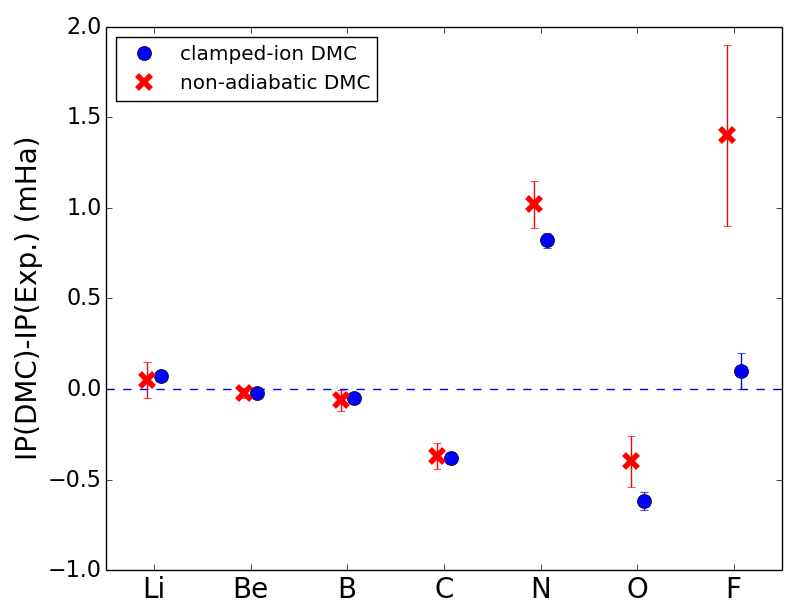
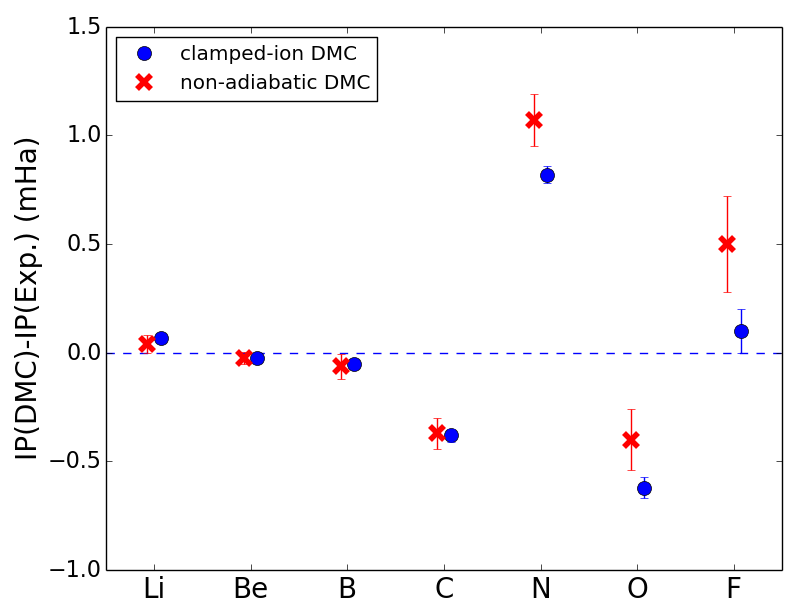
Reorganized Method Section
non-adiabatic CH should be correct now, but the result makes no sense.
Error bars on N, O and F need to be shrunk further to confirm ionization
conclusion

diff --git a/main.tex b/main.tex
@@ -23,21 +23,20 @@ As a framework to address these problems in general realistic systems, we recent
 \subsection{Fixed-Node Diffusion Monte Carlo (FN-DMC)}
 Diffusion Monte Carlo is a projector method that evolves a trial wavefunction in imaginary time and projects out the ground-state wavefunction.  For practical simulations of fermions, the fixed-node approximation is introduced, which depends only on set of electronic positions where a trial wave functions is equal to zero.  This approximation is different than approximations typically used in quantum chemistry calculations, and in this work we demonstrate that we can generate high quality nodal surfaces for a range of systems which include full electron-ion wave functions. 
 
-In the limiting case that the trial wavefunction has the same nodal surface as the exact ground-state wavefunction, FN-DMC can be applied to obtain the exact ground-state energy.  Approximate nodal surface can be generated through optimization of the full wave function. Such approximate nodal surfaces have been tested and validated on a wide range of systems, and consistently provide an excellent approximation of the exact ground-state energy,  comparable to the state of the art in \textit{ab initio} simulations~\cite{grossman1}. In addition the energies generated with FN-DMC are variational with regards to the ground state energy.
+If the trial wavefunction has the same nodal surface as the exact ground-state wavefunction, FN-DMC will obtain the exact ground-state energy.  Approximate nodal surfaces can be generated through optimization of the full wave function. Such approximate nodal surfaces have been tested and validated on a wide range of systems, and consistently provide an excellent approximation of the exact ground-state energy,  comparable to the state of the art in \textit{ab initio} simulations~\cite{grossman1}. In addition the energies generated with FN-DMC are variational with regards to the ground state energy.
 
-%With advances in wave function optimization, 
 In all but a handful of previous QMC simulations, ions are "clamped" to their equilibrium positions. Recent advances~\cite{Nightingale_Linear,Umrigar_Linear,Brown_Bench} have made it possible to optimize thousands of wave function parameters simultaneously with variational Monte Carlo within the clamped nuclei approximation. However, Such an assumption is not fundamentally required by FN-DMC.  In our previous work we found that the most important effect to optimize for were the nodes due to electron-electron correlations~\cite{Tubman_ECG}, and in this regard we use more sophisticated electronic terms in the wave function than the ion part of the wave function.
 
 \subsection{Electron Wavefunction and Optimization}
-There are several different approaches for generating high quality wave functions ~\cite{Umrigar_Alleviation,Toulouse_Bench, Brown_Bench,Seth_Bench}. We use an initial guess for the wavefunction that is generated from complete active space self-consistent field (CASSCF) \cite{Chaban_MCSCF,Szabo} calculation using the quantum chemistry package GAMESS \cite{GAMESS}. The optimized orbitals are then used in a configuration interaction (SOCI) calculation to generate a series of configuration state functions (CSF)~\cite{Clark_Bench}. The multi-CSF expansion of the wavefunction  can be expressed in the following form,
+There are several different approaches for generating high quality wave functions ~\cite{Umrigar_Alleviation,Toulouse_Bench, Brown_Bench,Seth_Bench}. We use an initial guess for the wavefunction that is generated from complete active space self-consistent field (CASSCF) \cite{Chaban_MCSCF,Szabo} calculation using the quantum chemistry package GAMESS \cite{GAMESS}. The optimized orbitals are then used in a singles and doubles configuration interaction (CISD) calculation to generate a series of configuration state functions (CSF)~\cite{Clark_Bench}. The multi-CSF expansion of the wavefunction can be expressed in the following form,
 \begin{align}
-\Psi_{SOCI}(\vec{r})=\sum\limits_{i=1}^{N_{CSF}}\alpha_i\phi_i(\vec{r}), \label{eq:psi_gms}
+\Psi_{\text{CISD}}(\vec{r};\vec{R}_e)=\sum\limits_{i=1}^{N_{\text{CSF}}}\alpha_i\phi_i(\vec{r};\vec{R}_e), \label{eq:psi_gms}
 \end{align}
-where $\vec{r}$ refers to the spacial coordinates of all the electrons. $\phi_i(\vec{r})$ are the CSF generated from SOCI. We used the cc-pV5Z basis for all the atomic systems and Roos Augmented Triple Zeta ANO basis for molecular systems~\cite{dunning,roos}. We then impose cusp condition on each molecular orbital~\cite{cusp} and add a Jastrow factor to the wave function to include electron correlation~\cite{Kato}. Our Jastrow factor contains one, two and three body terms. The full wave function being optimized is then
+where $\vec{r}$ refers to the spatial coordinates of all the electrons, $\vec{R}_e$ refers to the equilibrium positions of all the ions. $\phi_i(\vec{r})$ and $\vec{\alpha}=\{\alpha_1,\alpha_2,\dots\}$ are the CSF and CI coefficients generated from CISD. We used the cc-pV5Z basis for all the atomic systems and Roos Augmented Triple Zeta ANO basis for molecular systems~\cite{dunning,roos}. We then impose the cusp condition on each molecular orbital~\cite{cusp} and add a Jastrow factor to the wave function to include electron correlation~\cite{Kato}. Our Jastrow factor contains one, two and three body terms. The full electronic wave function being optimized is then
 \begin{align}
-\Psi_e(\vec{r})=e^{J(\vec{r},\vec{\beta})}\sum\limits_{i=1}^{N_{CSF}}\alpha_i\phi_i(\vec{r})\label{eq:psie}
+\psi_e(\vec{r})=e^{J(\vec{r},\vec{\beta})}\Psi_{\text{CISD}}(\vec{r};\vec{R}_e)\label{eq:psie}
 \end{align}
-We optimized the CSF and Jastrow coefficients $\vec{\alpha},\vec{\beta}$ simultaneously with QMCPACK \cite{QMCPACK}.
+We optimized the CSF and Jastrow coefficients $\vec{\alpha},\vec{\beta}$ simultaneously with QMCPACK \cite{QMCPACK}. Optimization is performed with the ions clamped to their equilibrium positions. We include all CSFs with coefficients bigger than some cutoff $\epsilon$ to lend reasonable flexibility to the wavefunction during optimization. We include as many CSFs as possible to maximize the flexibility of the wavefunction. However, the inclusion of too many CSFs with small expansion coefficients can introduces noise as they requires a large number of samples in the optimization step to be optimized. We have chosen $\epsilon$ to restrict the number of CSFs in the wave function to be $\sim$1000 in all systems. Optimization was performed with the linear method with roughly $10^7$ statistically independent samples and we chose a cost function consisting of equal parts average local energy and reweighted variance.
 
 \subsection{Electron-Ion Wavefunction}
 
@@ -51,12 +50,14 @@ Once a satisfactory electronic wave function has been obtained, we construct the
 \begin{align}
 \Psi_{ei}(\vec{r},\vec{R})=\psi_I(\vec{R})\bar{\psi}_e(\vec{r},\vec{R}), \label{eq:psi}
 \end{align}
-where $\vec{R}$ includes spatial coordinates of all ions. The ion wave function consists of simple products of Gaussian wave functions over each nuclei pair,
+where $\vec{R}$ includes spatial coordinates of all ions. The ionic wave function consists of simple products of Gaussian wave functions over each nuclei pair,
 \begin{align}
-\psi_I(\vec{R})\propto \prod\limits_{i,i<j}e^{-a(\vert \vec{R}-\vec{R}_j\vert-b_{ij})^2},
+\psi_I(\vec{R})\propto \prod\limits_{i,j>i}e^{-a(\vert \vec{R}-\vec{R}_j\vert-b_{ij})^2},
 \label{wfs_ions}
 \end{align}
-where $a$ is a contraction coefficient for the ion wave function that we optimize for each system and $b_{ij}$ are taken to be the equilibrium distances between the nuclei at the minimum of the potential energy surface of the clamped nuclei.  Due to the locality of the Gaussian basis set used in the quantum chemistry calculations for constructing the electronic wave function, the nodes change based on the ionic position, which we have previously called the dragged-node approximation.  Although there are approaches for going beyond this approximation, it was demonstrated to be highly accurate over a range of molecules in previous work.  For the systems considered here, we can impose various symmetries of the Hamiltonian onto the wave function that arise from the relative motion of the ions.  In Fig.~\ref{fig:drag} we demonstrate this strategy for the simple cases of a hydrogen atom and a H$_2^+$ molecular ion. Although the dragged-node technique is developed with atomic and diatomic systems in mind, it is not difficult to generalize it for use in larger systems or even apply to parts of a bigger system, e.g., treating light ions as quantum particles and heavy ions as "clamped".
+where $a$ is a coefficient for the ion wave function that we optimize and $b_{ij}$ are taken to be the equilibrium distances between the nuclei. FN-DMC was then performed with the fully optimized electron-ion wave function. We performed timestep extrapolation for all of the tested systems. At least four timesteps from $0.005~\text{Ha}^{-1}$ to $0.001~\text{Ha}^{-1}$ were used for all systems in the adiabatic FN-DMC and $0.001~\text{Ha}^{-1}$ to $0.0001~\text{Ha}^{-1}$ in non-adiabatic FN-DMC.
+
+Due to the locality of the Gaussian basis set used in the quantum chemistry calculations for constructing the electronic wave function, the nodes change based on the ionic positions, which we have previously called the dragged-node approximation. In particular, the nodes only coincide with those obtained from the quantum chemistry calculation when the ions are at their equilibrium positions $\bar{\psi}_e(\vec{r},\vec{R}_e)=\psi_e(\vec{r})$. Although there are approaches for going beyond this approximation, it was demonstrated to be highly accurate over a range of molecules in previous work.~\cite{Tubman_ECG} For the systems considered here, we can impose various symmetries of the Hamiltonian onto the wave function that arise from the relative motion of the ions. In Fig.~\ref{fig:drag} we demonstrate this strategy for the simple cases of a hydrogen atom and a H$_2^+$ molecular ion. Although the dragged-node technique is developed with atomic and diatomic systems in mind, it is not difficult to generalize it for use in larger systems or even apply to parts of a bigger system, e.g., treating light ions as quantum particles and heavy ions as "clamped". 
 
 \section{Results and Discussion}
 \input{Table/atoms}
@@ -64,22 +65,21 @@ where $a$ is a contraction coefficient for the ion wave function that we optimiz
 \begin{figure}
 \centering
 \includegraphics[scale=.4]{Figures/ad-ECG}
-\caption{Ground state energy of Be,$\text{Be}^+$,B,$\text{B}^+$ and $\text{C}^+$ calculated with clamped-ion FN-DMC compared to ECG results.~\cite{Stanke_Be,Puchalski_Be+,Bubin_B,Bubin_B+,Bubin_C+} The ECG reference energies are chosen to be the origins of the y-axes. \label{fig:ad-atoms}}
+\caption{Clamped-ion FN-DMC ground state energies for $\text{Be}^+$,Be,$\text{B}^+$,B,$\text{C}^+$ relative to clamped-ion ECG references.~\cite{Stanke_Be,Puchalski_Be+,Bubin_B,Bubin_B+,Bubin_C+} These differences provide an estimate for the fixed node errors in these systems. \label{fig:ad-atoms}}
 \end{figure}
 
 \begin{figure}
 \centering
 \includegraphics[scale=.4]{Figures/nad-ECG}
-\caption{Ground state energy of Be,$\text{Be}^+$,B,$\text{B}^+$ and $\text{C}^+$ calculated with non-adiabatic FN-DMC compared to ECG results.~\cite{Bubin_BeH_noBO,Bubin_B,Bubin_B+,Bubin_C+} The ECG reference energies are chosen to be the origins of the y-axes. \label{fig:nad-atoms}}
+\caption{Non-adiabatic FN-DMC ground state energies for $\text{Be}^+$,Be,$\text{B}^+$,B,$\text{C}^+$ relative to non-adiabatic ECG references.~\cite{Bubin_BeH_noBO,Bubin_B,Bubin_B+,Bubin_C+} These differences provide an estimate for the fixed node errors in these systems. \label{fig:ECG-atoms}}
 \end{figure}
 
 \subsection{Ground State Energies}
-Ground state energies are calculated for first row atoms and ions and hydrides with and without the adiabatic assumption, see Table \ref{tab:ionization} and \ref{tab:atomization}. The ground state geometries for BeH and BH are chosen to be the ECG-optimized distances for a comparison with the ECG method and the geometries for the rest of the hydrides are taken from experimental data \cite{CCCBDB}. For the systems, Li, Be, B, Be$^+$, B$^+$, C$^+$ and LiH the ECG/Hylleraas results are converged to several digits beyond what can be done with normal quantum chemistry techniques.  Thus these results are likely much more accurate than experimental results, and are converged to an accuracy beyond our FN-DMC results.   %For the largest ECG simulation of the BH molecule, it is clear that this high level of convergence has not been achieved, as our QMC results are significantly lower in energy.  
-   We first perform a CAS(m,n) calculation (m electrons into n active orbitals), then the MCSCF optimized orbitals are used in a SOCI calculation that includes single and double excitations of the m electrons into all of the remaining valance orbitals. We include all CSFs with coefficients bigger than some cutoff $\epsilon$ to lend reasonable flexibility to the wavefunction during optimization. We include as many CSFs as possible to maximize the flexibility of the wavefunction. However, the inclusion of too many CSFs with small expansion coefficients can introduces noise as they requires a large number of samples in the optimization step to be optimized. We have chosen $\epsilon$ to restrict the number of CSFs in the wave function to be $\sim$1000 in all systems. Optimization was performed with the linear method with roughly $10^7$ statistically independent samples and we chose a cost function consisting of equal parts average local energy and reweighted variance. We performed timestep extrapolation for all of the tested systems. At least four timesteps from $0.005~\text{Ha}^{-1}$ to $0.001~\text{Ha}^{-1}$ were used for all systems in the adiabatic FN-DMC.
+Ground state energies are calculated for first row atoms and ions and hydrides with and without the adiabatic assumption, see Table \ref{tab:ionization} and \ref{tab:atomization}. The ground state geometries for BeH and BH are chosen to be the ECG-optimized distances for a comparison with the ECG method and the geometries for the rest of the hydrides are taken from experimental data \cite{CCCBDB}. For the small systems, Li, Be, B, Be$^+$, B$^+$, C$^+$ and LiH the ECG/Hylleraas results are converged to several digits beyond what can be done with normal quantum chemistry techniques. Thus these results are likely much more accurate than experimental results, and are converged to an accuracy beyond our FN-DMC results.
 
-As an illustration of the high quality QMC techniques used in this work, we compare our atomic results with a recent QMC benchmark study~\cite{Seth_Bench}. The clamped nuclei ground state FN-DMC energies are consistently equal across all systems (except for O$^{+}$), within error bars. This is an interesting coincidence since we used a different approach in optimizing our wave functions. In particular our large multi-determinant expansions, can be compared with the approach used by Seth {\it et al.}~\cite{Seth_Bench} which used moderately-sized multi-determinant expansions ($\sim$ 100 CSF) with a backflow transformation.   
+As an illustration of the high quality QMC techniques used in this work, we compare our atomic results with a recent QMC benchmark study~\cite{Seth_Bench}. The clamped nuclei ground state FN-DMC energies consistently agree across all systems (except for O$^{+}$), within error bars. This is an interesting coincidence since we used a different approach in optimizing our wave functions. In particular our large multi-determinant expansions, can be compared with the approach used by Seth {\it et al.}~\cite{Seth_Bench} which used moderately-sized multi-determinant expansions ($\sim$ 100 CSF) with a backflow transformation.   
  
-For the atomic systems, there are three ECG calculations of non-adiabatic ground state energies we can use as benchmark. The non-adiabatic ground-state energies for Be, $\text{Be}^+$, B,$\text{B}^+$ and $\text{C}^+$ are in agreement with ECG results (-14.66643544~Ha~\cite{Bubin_BeH_noBO},-14.32386349~Ha~\cite{Bubin_BeH_noBO},-24.65262387(250)~Ha~\cite{Bubin_B},-24.347641289(35)~Ha~\cite{Bubin_B+},-37.42916955(250)~Ha~\cite{Bubin_C+}) within 0.2 mHa as shown in Figure \ref{fig:ECG-atoms} .
+For the atomic systems, there are three ECG calculations of non-adiabatic ground state energies we can use as benchmark. The non-adiabatic ground-state energies for Be, $\text{Be}^+$, B,$\text{B}^+$ and $\text{C}^+$ are in agreement with ECG results (-14.66643544~Ha~\cite{Bubin_BeH_noBO},-14.32386349~Ha~\cite{Bubin_BeH_noBO},-24.65262387(250)~Ha~\cite{Bubin_B},-24.347641289(35)~Ha~\cite{Bubin_B+},-37.42916955(250)~Ha~\cite{Bubin_C+}) within 0.2 mHa as shown in Figure \ref{fig:ECG-atoms}.
 
 We performed a study over diatomic systems, the results of which are presented in Table \ref{tab:atomization}. For these diatomic systems, there are high quality thermochemistry benchmark results for which we can compare ~\cite{Feller_Corrections}. 
 
@@ -87,12 +87,12 @@ To make the comparison against the thermochemistry benchmark results, we take th
 
 \begin{figure}
 \includegraphics[scale=.4]{Figures/atom-nad-ad}
-\caption{Non-adiabatic contribution to ground state energies of atoms and ions. The clamped-ion DMC results are chosen to be the origin of the y-axis. Non-adiabatic contribution shows very little dependence on the presence of the ionized electron.}
+\caption{Non-adiabatic contribution to ground state energies of atoms and ions. Non-adiabatic contribution shows very little dependence with the ionized state.}
 \end{figure}
 
 \begin{figure}
 \includegraphics[scale=.4]{Figures/hydride-ZPE}
-\caption{Non-adiabatic contribution to ground state energies in hydrides. The adiabatic reference energies are calculated by added zero-point contributions from \cite{Feller_Corrections} to our clamped-nuclei results.}
+\caption{Non-adiabatic contribution to ground state energies in hydrides. The adiabatic reference energies are calculated by adding zero-point contributions from \cite{Feller_Corrections} to our clamped-nuclei results.}
 \end{figure}
 
 \subsection{Ionization Energies}
@@ -100,10 +100,10 @@ To make the comparison against the thermochemistry benchmark results, we take th
 \begin{figure}[h]
 \centering
 \includegraphics[scale=.4]{Figures/ionization}
-\caption{Calculated ionization energies compared to experimental data. The calculated energies are all within 1 mHa of experiment.}
+\caption{Calculated ionization energies relative to experimental data. The calculated energies are all within 1 mHa of experiment.}
 \end{figure}
 
-The ionization energies are listed in Table \ref{tab:ionization}.  Notice that even though ground state energies change significantly with the inclusion of non-adiabatic effects, the ionization energies match with or without the adiabatic assumption. This suggests that for atomic systems, coupling between valence electron and ion motions is small. The difference in ground state energies can be entirely attributed to the zero point motion of the nuclei. Physically, this means that for all first row atoms, the outer most electron is screened from the nucleus and all of the energy required for its removal can be attributed to its interaction with the rest of the electrons in the atom.
+The ionization energies are listed in Table \ref{tab:ionization}.  Notice that even though ground state energies change significantly with the inclusion of non-adiabatic effects, the ionization energies are relatively independent of nuclear motion. This suggests that for atomic systems, coupling between valence electron and ion motions is small. The difference in ground state energies can be entirely attributed to the zero point motion of the nuclei. Physically, this means that for all first row atoms, the outer most electron is screened from the nucleus and all of the energy required for its removal can be attributed to its interaction with the rest of the electrons in the atom.
 
 For the LiH molecule we are also interested in calculating the electron affinity for comparison to ECG results. We calculated the ground state energy of LiH$^-$ to be $-8.08220(2)$~Ha for the case of clamped nuclei.  With non-adiabatic effects included our result is  $-8.07811(3)$~Ha. Our non-adiabatic result is in good agreement with a previous ECG study \cite{Bubin_LiH_noBO} which reported a value of $-8.07856887$~Ha. We report an electron affinity of $0.01191(4)$~Ha which is can be compared to the ECG prediction of $0.012132(2)$~Ha and agrees with experiment, $0.0126(4)$~Ha. \footnote{We note that LiH ground state energies which we compare against are mislabeled in Ref.\cite{Bubin_LiH_noBO}, with $\text{LiH}^-$ and LiD being switched.}
 
@@ -114,19 +114,19 @@ For the LiH molecule we are also interested in calculating the electron affinity
 \begin{figure}
 \centering
 \includegraphics[scale=.4]{Figures/dia-ECG}
-\caption{Ground state energy of LiH, BeH and BH calculated with non-adiabatic FN-DMC compared to ECG results.~\cite{Adamowicz_LiH,Koput_BeH,Miliordos_BH} The ECG reference energies are chosen to be the origins of the y-axes.}
+\caption{Ground state energies of LiH, BeH and BH calculated with non-adiabatic FN-DMC relative to ECG results.~\cite{Adamowicz_LiH,Koput_BeH,Miliordos_BH}.}
 \end{figure}
 
 \begin{figure}
 \centering
 \includegraphics[scale=.4]{Figures/atomization}
-\caption{Atomization energies of first row hydrides obtained with FN-DMC. The adiabatic results are estimated by adding zero-point energies from \cite{Feller_Corrections} to the clamped nuclei energies as exact corrections. Experimental values are chosen to be the origins of the y-axis.}
+\caption{Atomization energies of first row hydrides obtained with FN-DMC relative to experimental . The adiabatic results are estimated by adding zero-point energies from \cite{Feller_Corrections} to the clamped nuclei energies as exact corrections.}
 \end{figure}
 
-The ground state energies for various hydrides are reported in Table \ref{tab:atomization}. The energies calculated for clamped nuclei are on par with the best available quantum chemistry results \cite{Adamowicz_LiH,Koput_BeH,Miliordos_BH}. The energies calculated without the adiabatic assumption are in agreement with the ECG results for LiH, BeH to within 0.4 mHa. For small systems, ECG results are typically orders of magnitude more accurate than the best QMC and quantum chemistry simulations. However, with BH being one of the largest ECG simulations performed, the QMC results are actually lower in energy, in this case by 1 mHa. For the systems CH, OH, and HF, there are no explicit simulations we can compare against, and we rely on the experimental results and the results with estimated non-adiabatic corrections for comparison. Our biggest errors appear to occur for BeH and OH.   For the case of BeH our agree with accuracy higher than 1 mHa with both the ECG results and semi-empirical benchmarking. In particular the ECG results are converged to more digits than the experimental error bar, and it is likely the experimental reference has errors on the order of 5 mHa.   For the case of OH, our error is on the order of 1 mHa, which isn't unexpected as our clamped nuclei ground state energy is roughly 3 mHa from the actual estimated ground state energy.
+The ground state energies for various hydrides are reported in Table \ref{tab:atomization}. The energies calculated for clamped nuclei are on par with the best available quantum chemistry results \cite{Adamowicz_LiH,Koput_BeH,Miliordos_BH}. The energies calculated without the adiabatic assumption are in agreement with the ECG results for LiH, BeH to within 0.4 mHa. For small systems, ECG results are typically orders of magnitude more accurate than the best QMC and quantum chemistry simulations. However, with BH being one of the largest ECG simulations performed, the QMC results are actually lower in energy, in this case by 1 mHa. For the systems CH, OH, and HF, there are no explicit simulations we can compare against, and we rely on the experimental results and the results with estimated non-adiabatic corrections for comparison. Our biggest errors appear to occur for BeH and OH. For the case of BeH we agree with accuracy higher than 1 mHa with both the ECG results and semi-empirical benchmarking. In particular the ECG results are converged to more digits than the experimental error bar, and it is likely the experimental reference has errors on the order of 5 mHa.   For the case of OH, our error is on the order of 1 mHa, which is not unexpected as our clamped nuclei ground state energy is roughly 3 mHa from the actual estimated ground state energy.
 
 \section{Conclusion}
-We calculated the ground-state energies of first row atoms and their corresponding ions and hydrides to an accuracy of $0.1$ mHa both with and without the adiabatic assumption. We found the ionization energies of the atoms to be independent of the adiabatic assumption, suggesting that the energy difference between the adiabatic and non-adiabatic ground states is due to the zero point motion of the nuclei at the energy scales of interest. The atomization energies of simple hydrides, however, were significantly different in the adiabatic than in the non-adiabatic limit.   We showed that it is necessary to include non-adiabatic effects to accurately predict the experimental values of atomization energies for these simple hydrides.
+We calculated the ground-state energies of first row atoms and their corresponding ions and hydrides to an accuracy of $0.1$ mHa both with and without the adiabatic assumption. We found the ionization energies of most of the atoms to be independent of the adiabatic assumption, suggesting that the energy difference between the adiabatic and non-adiabatic ground states is mostly due to the zero point motion of the nuclei. The atomization energies of simple hydrides, however, were significantly different in the adiabatic than in the non-adiabatic limit. We showed that it is necessary to include non-adiabatic effects to accurately predict the experimental values of atomization energies for these simple hydrides to an accuracy of 1 mHa.
 
 These calculations also verified the validity of our wave function ansatz, namely it does indeed produce a high quality electron-ion trial wavefunction from a good electron wavefunction. This technique also has the potential to solve interesting larger-scale problems due to its ease of implementation as well as the polynomial scaling in computational time with respect to the number of electrons.  This technique can be generalized quite easily to deal with larger systems.
 

diff --git a/Table/atoms.tex b/Table/atoms.tex
@@ -46,7 +46,8 @@ $E_{\text{ref}}$ \cite{Davidson_Atoms,Wang_Li,Stanke_Be,Bubin_B} &  \text{-}7.47
 \multicolumn{1}{c}{} &
 \multicolumn{1}{c}{} &
 \multicolumn{1}{c}{} \\
-FN-DMC & \text{-}7.47742(1) & \text{-}14.66643(2) & \text{-}24.65240(5) & \text{-}37.8428(1) & \text{-}\textbf{54.5865(1)} & \text{-}75.0632(1) & \text{-}\textbf{99.7301(5)} \\
+FN-DMC & \text{-}7.47742(1) & \text{-}14.66643(2) & \text{-}24.65240(5) & \text{-}37.8428(1) & \text{-}54.58655(9) & \text{-}75.0632(1) & \text{-}99.7292(2) \\
+ECG & N/A & \text{-}14.666435\tnote{d} & \text{-}24.652624\tnote{e} & N/A & N/A & N/A & N/A \\
 \hline
 
 \multicolumn{1}{c}{Ion} & 
@@ -68,7 +69,7 @@ FN-DMC & \text{-}7.47742(1) & \text{-}14.66643(2) & \text{-}24.65240(5) & \text{
 \multicolumn{1}{c}{} \\
 FN-DMC & \text{-}7.279919(4) & \text{-}14.324763(6) & \text{-}24.34884(1) & \text{-}37.43075(2) & \text{-}54.05376(3) & \text{-}74.56588(4) & \text{-}99.0913(1) \\
 Seth DMC \cite{Seth_Bench} & \text{-}7.279914(3) & \text{-}14.324761(3) & \text{-}24.34887(2) & \text{-}37.43073(4) & \text{-}54.05383(7) & \text{-}74.56662(7) & \text{-}99.0911(2) \\
-$E_{\text{ref}}$ \tnote{d} \cite{Davidson_Atoms,Puchalski_Be+,Bubin_B+,Bubin_C+} & \text{-}7.27999 & \text{-}14.324763 \tnote{e} & \text{-}24.348884 \tnote{f} & \text{-}37.430880 \tnote{g} & \text{-}54.0552 & \text{-}74.5668 & \text{-}99.0937 \\ 
+$E_{\text{ref}}$ \tnote{f} \cite{Davidson_Atoms,Puchalski_Be+,Bubin_B+,Bubin_C+} & \text{-}7.27999 & \text{-}14.324763 \tnote{g} & \text{-}24.348884 \tnote{h} & \text{-}37.430880 \tnote{i} & \text{-}54.0552 & \text{-}74.5668 & \text{-}99.0937 \\ 
 \multicolumn{1}{c}{} &
 \multicolumn{1}{c}{} &
 \multicolumn{1}{c}{} &
@@ -77,7 +78,8 @@ $E_{\text{ref}}$ \tnote{d} \cite{Davidson_Atoms,Puchalski_Be+,Bubin_B+,Bubin_C+}
 \multicolumn{1}{c}{} &
 \multicolumn{1}{c}{} &
 \multicolumn{1}{c}{} \\
-FN-DMC & \text{-}\textbf{7.2793(1)} & \text{-}14.32386(2) & \text{-}24.34748(3) & \text{-}37.42901(4) & \text{-}54.05148(8) & \text{-}74.5631(1) & \text{-}99.0885(1) \\
+FN-DMC & \text{-}7.27931(4) & \text{-}14.32386(2) & \text{-}24.34748(3) & \text{-}37.42901(4) & \text{-}54.05148(8) & \text{-}74.5631(1) & \text{-}99.0885(1) \\
+ECG & N/A &  \text{-}14.323863\tnote{j} &  \text{-}24.347641\tnote{k} &  \text{-}37.429169\tnote{l} & N/A & N/A & N/A \\
 \hline
 \multicolumn{1}{c}{} & 
 \multicolumn{1}{c}{} &
@@ -96,7 +98,7 @@ IP (FN-DMC) & 0.19814(1) & 0.34257(1) & 0.30493(1) & 0.41374(3) & 0.53482(4) & 0
 \multicolumn{1}{c}{} &
 \multicolumn{1}{c}{} &
 \multicolumn{1}{c}{} \\
-IP (FN-DMC) & 0.1981(1) & 0.34257(3) & 0.30492(6) & 0.41375(7) & \textbf{0.5350(1)} & 0.5001(1) & \textbf{0.6416(5)} \\
+IP (FN-DMC) & 0.19811(4) & 0.34257(3) & 0.30492(6) & 0.41375(7) & 0.5351(1) & 0.5001(1) & 0.6407(2) \\
 IP (Exp.) \cite{Davidson_Atoms} & 0.19807 & 0.342593 & 0.304982 & 0.41412 & 0.5340 & 0.5005 & 0.6402 \\
 \hline\hline
 \end{tabular}
@@ -105,10 +107,15 @@ IP (Exp.) \cite{Davidson_Atoms} & 0.19807 & 0.342593 & 0.304982 & 0.41412 & 0.53
 \item[a] Wang et. al.~\cite{Wang_Li} with Hylleraas method -7.4780603239101437(45) Ha
 \item[b] Stanke et. al.~\cite{Stanke_Be} with ECG -14.667356486(15) Ha
 \item[c] Bubin et. al.~\cite{Bubin_B} with ECG -24.65386608(250) Ha
-\item[e] Puchalski et. al.~\cite{Puchalski_Be+} with Hylleraas method -14.32476317679043(22) Ha
-\item[f] Bubin et. al.~\cite{Bubin_B+} with ECG -24.348884446(35) Ha
-\item[g] Bubin et. al.~\cite{Bubin_C+} with ECG -37.43088049 Ha
-\item[d] The ionic ground state energies are calculated by adding ionization potentials in Table XII to the atomic ground state energies in Table XI from Ref.~\cite{Davidson_Atoms}.
+\item[d] Bubin et. al.~\cite{Bubin_BeH_noBO} with ECG \text{-}14.66643544 Ha
+\item[e] Bubin et. al.~\cite{Bubin_B} with ECG \text{-}24.65262387(250) Ha
+\item[f] The ionic ground state energies are calculated by adding ionization potentials in Table XII to the atomic ground state energies in Table XI from Ref.~\cite{Davidson_Atoms}.
+\item[g] Puchalski et. al.~\cite{Puchalski_Be+} with Hylleraas method -14.32476317679043(22) Ha
+\item[h] Bubin et. al.~\cite{Bubin_B+} with ECG -24.348884446(35) Ha
+\item[i] Bubin et. al.~\cite{Bubin_C+} with ECG -37.43088049 Ha
+\item[j] Bubin et. al.~\cite{Bubin_BeH_noBO} with ECG \text{-}14.32386349 Ha
+\item[k] Bubin et. al.~\cite{Bubin_B+} with ECG \text{-}24.347641289(35) Ha
+\item[l] Bubin et. al.~\cite{Bubin_C+} with ECG \text{-}37.42916955(250) Ha
 \end{tablenotes}
 
 \end{threeparttable}

diff --git a/Table/diatomics.tex b/Table/diatomics.tex
@@ -40,7 +40,7 @@ $E_{\text{ref}}$ \tnote{a} \cite{Adamowicz_LiH,Koput_BeH,Miliordos_BH,Davidson_A
 \multicolumn{1}{c}{} &
 \multicolumn{1}{c}{} &
 \multicolumn{1}{c}{} \\
-E (this work) & \text{-}\textbf{8.06621(3)} & \text{-}15.24198(6) & \text{-}25.28103(5) & \text{-}38.4675(4) & \text{-}75.7239(4) & \text{-}100.4447(4) \\
+E (this work) & \text{-}\textbf{8.06621(3)} & \text{-}15.24198(6) & \text{-}25.28103(5) & \text{-}\textbf{38.4671(2)} & \text{-}75.7239(4) & \text{-}100.4447(4) \\
 ECG \cite{Bubin_LiH_noBO,Bubin_BeH_noBO,Bubin_BH_noBO} & \text{-}8.0664371(15) & \text{-}15.24203(10) & \text{-}25.2803(10) & N/A & N/A & N/A \\
 \hline
 
@@ -60,7 +60,7 @@ Feller \tnote{b} \cite{Feller_Corrections} & 0.09262(5) & 0.0809(4) & 0.1354(2) 
 \multicolumn{1}{c}{} &
 \multicolumn{1}{c}{} &
 \multicolumn{1}{c}{} \\
-$D_{0}^0$ (this work) & 0.08909(3)  & 0.07585(6)  & 0.12893(7) & 0.1250(4) & 0.1610(4) & 0.2149(6) \\
+$D_{0}^0$ (this work) & \textbf{0.08909(3)}  & 0.07585(6)  & 0.12893(7) & \textbf{0.1246(2)} & 0.1610(4) & 0.2158(4) \\
 Feller \tnote{c} \cite{Feller_Corrections} & 0.08940(5) & 0.0761(4) & 0.1299(2) & 0.1276(2) & 0.1622(2) & 0.2166(3)\\
 Exp. \cite{CCCBDB} & 0.08874(38) & 0.0826(11) & 0.1281(37) & 0.1275(5) & 0.1622(1) & 0.2158(3) \\
 \hline\hline
